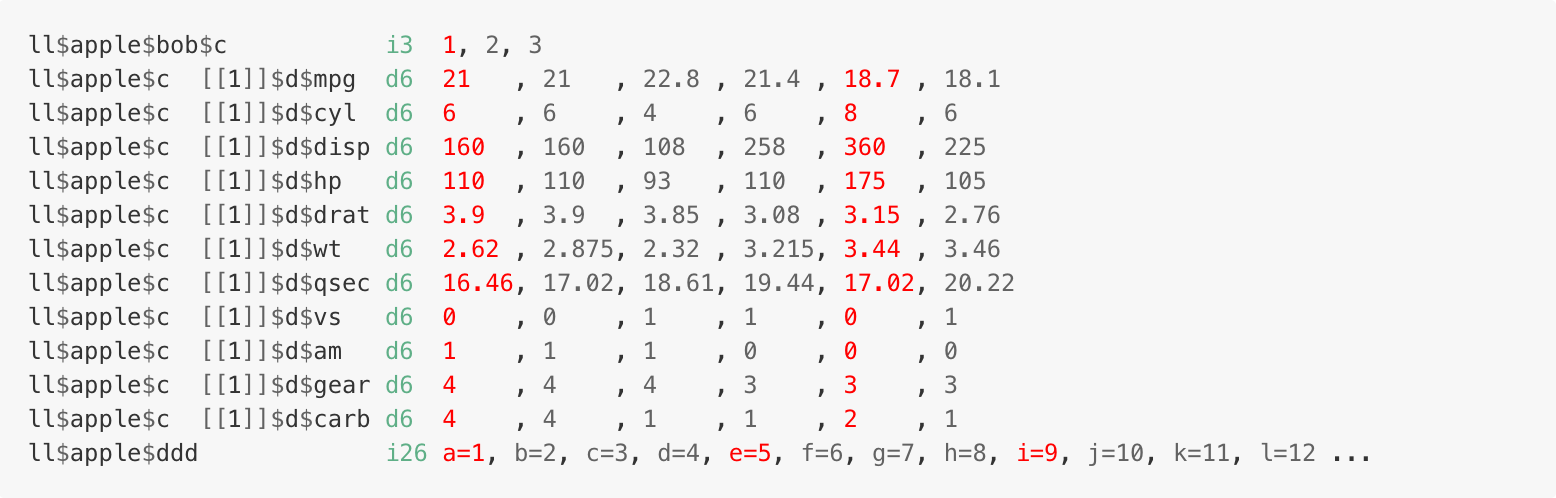
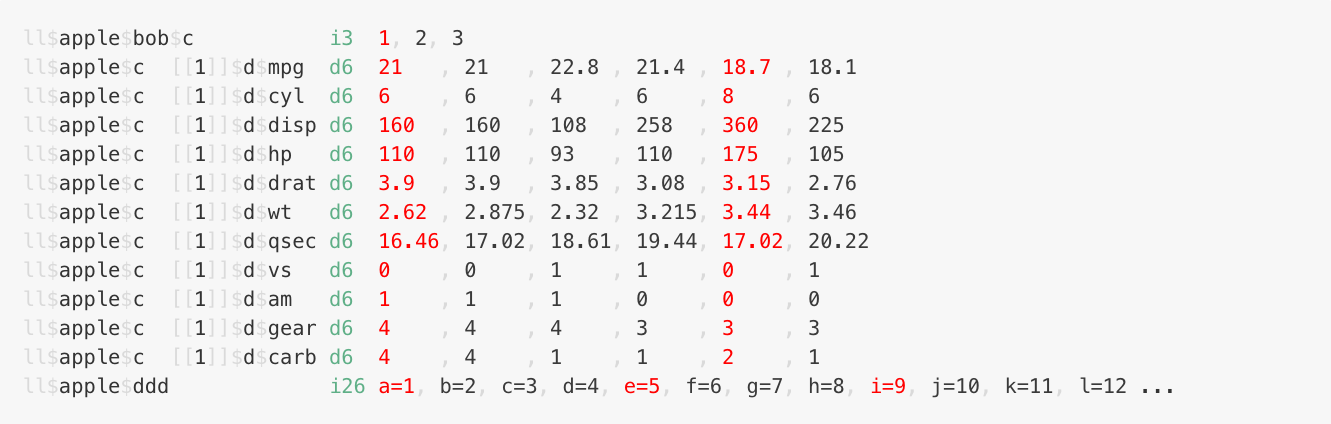
tweak use of 'soft' colour

diff --git a/man/figures/mtcars.html b/man/figures/mtcars.html
@@ -1,1 +1,1 @@
-<html><pre>mtcars<span style='color: #626262;'>$</span><span>mpg  </span><span style='color: #5FAF87;'>d32</span><span> </span><span style='color: #626262;'>21   </span><span>, </span><span style='color: #626262;'>21   </span><span>, </span><span style='color: #626262;'>22.8 </span><span>, </span><span style='color: #626262;'>21.4 </span><span>, </span><span style='color: #626262;'>18.7 </span><span>, </span><span style='color: #626262;'>18.1 </span><span>, </span><span style='color: #626262;'>14.3 </span><span>, </span><span style='color: #626262;'>24.4 </span><span>, </span><span style='color: #626262;'>22.8 </span><span>, </span><span style='color: #626262;'>19.2 </span><span>, </span><span style='color: #626262;'>17.8</span><span> ...<br />mtcars</span><span style='color: #626262;'>$</span><span>cyl  </span><span style='color: #5FAF87;'>d32</span><span> </span><span style='color: #626262;'>6    </span><span>, </span><span style='color: #626262;'>6    </span><span>, </span><span style='color: #626262;'>4    </span><span>, </span><span style='color: #626262;'>6    </span><span>, </span><span style='color: #626262;'>8    </span><span>, </span><span style='color: #626262;'>6    </span><span>, </span><span style='color: #626262;'>8    </span><span>, </span><span style='color: #626262;'>4    </span><span>, </span><span style='color: #626262;'>4    </span><span>, </span><span style='color: #626262;'>6    </span><span>, </span><span style='color: #626262;'>6   </span><span> ...<br />mtcars</span><span style='color: #626262;'>$</span><span>disp </span><span style='color: #5FAF87;'>d32</span><span> </span><span style='color: #626262;'>160  </span><span>, </span><span style='color: #626262;'>160  </span><span>, </span><span style='color: #626262;'>108  </span><span>, </span><span style='color: #626262;'>258  </span><span>, </span><span style='color: #626262;'>360  </span><span>, </span><span style='color: #626262;'>225  </span><span>, </span><span style='color: #626262;'>360  </span><span>, </span><span style='color: #626262;'>146.7</span><span>, </span><span style='color: #626262;'>140.8</span><span>, </span><span style='color: #626262;'>167.6</span><span>, </span><span style='color: #626262;'>167.</span><span> ...<br />mtcars</span><span style='color: #626262;'>$</span><span>hp   </span><span style='color: #5FAF87;'>d32</span><span> </span><span style='color: #626262;'>110  </span><span>, </span><span style='color: #626262;'>110  </span><span>, </span><span style='color: #626262;'>93   </span><span>, </span><span style='color: #626262;'>110  </span><span>, </span><span style='color: #626262;'>175  </span><span>, </span><span style='color: #626262;'>105  </span><span>, </span><span style='color: #626262;'>245  </span><span>, </span><span style='color: #626262;'>62   </span><span>, </span><span style='color: #626262;'>95   </span><span>, </span><span style='color: #626262;'>123  </span><span>, </span><span style='color: #626262;'>123 </span><span> ...<br />mtcars</span><span style='color: #626262;'>$</span><span>drat </span><span style='color: #5FAF87;'>d32</span><span> </span><span style='color: #626262;'>3.9  </span><span>, </span><span style='color: #626262;'>3.9  </span><span>, </span><span style='color: #626262;'>3.85 </span><span>, </span><span style='color: #626262;'>3.08 </span><span>, </span><span style='color: #626262;'>3.15 </span><span>, </span><span style='color: #626262;'>2.76 </span><span>, </span><span style='color: #626262;'>3.21 </span><span>, </span><span style='color: #626262;'>3.69 </span><span>, </span><span style='color: #626262;'>3.92 </span><span>, </span><span style='color: #626262;'>3.92 </span><span>, </span><span style='color: #626262;'>3.92</span><span> ...<br />mtcars</span><span style='color: #626262;'>$</span><span>wt   </span><span style='color: #5FAF87;'>d32</span><span> </span><span style='color: #626262;'>2.62 </span><span>, </span><span style='color: #626262;'>2.875</span><span>, </span><span style='color: #626262;'>2.32 </span><span>, </span><span style='color: #626262;'>3.215</span><span>, </span><span style='color: #626262;'>3.44 </span><span>, </span><span style='color: #626262;'>3.46 </span><span>, </span><span style='color: #626262;'>3.57 </span><span>, </span><span style='color: #626262;'>3.19 </span><span>, </span><span style='color: #626262;'>3.15 </span><span>, </span><span style='color: #626262;'>3.44 </span><span>, </span><span style='color: #626262;'>3.44</span><span> ...<br />mtcars</span><span style='color: #626262;'>$</span><span>qsec </span><span style='color: #5FAF87;'>d32</span><span> </span><span style='color: #626262;'>16.46</span><span>, </span><span style='color: #626262;'>17.02</span><span>, </span><span style='color: #626262;'>18.61</span><span>, </span><span style='color: #626262;'>19.44</span><span>, </span><span style='color: #626262;'>17.02</span><span>, </span><span style='color: #626262;'>20.22</span><span>, </span><span style='color: #626262;'>15.84</span><span>, </span><span style='color: #626262;'>20   </span><span>, </span><span style='color: #626262;'>22.9 </span><span>, </span><span style='color: #626262;'>18.3 </span><span>, </span><span style='color: #626262;'>18.9</span><span> ...<br />mtcars</span><span style='color: #626262;'>$</span><span>vs   </span><span style='color: #5FAF87;'>d32</span><span> </span><span style='color: #626262;'>0    </span><span>, </span><span style='color: #626262;'>0    </span><span>, </span><span style='color: #626262;'>1    </span><span>, </span><span style='color: #626262;'>1    </span><span>, </span><span style='color: #626262;'>0    </span><span>, </span><span style='color: #626262;'>1    </span><span>, </span><span style='color: #626262;'>0    </span><span>, </span><span style='color: #626262;'>1    </span><span>, </span><span style='color: #626262;'>1    </span><span>, </span><span style='color: #626262;'>1    </span><span>, </span><span style='color: #626262;'>1   </span><span> ...<br />mtcars</span><span style='color: #626262;'>$</span><span>am   </span><span style='color: #5FAF87;'>d32</span><span> </span><span style='color: #626262;'>1    </span><span>, </span><span style='color: #626262;'>1    </span><span>, </span><span style='color: #626262;'>1    </span><span>, </span><span style='color: #626262;'>0    </span><span>, </span><span style='color: #626262;'>0    </span><span>, </span><span style='color: #626262;'>0    </span><span>, </span><span style='color: #626262;'>0    </span><span>, </span><span style='color: #626262;'>0    </span><span>, </span><span style='color: #626262;'>0    </span><span>, </span><span style='color: #626262;'>0    </span><span>, </span><span style='color: #626262;'>0   </span><span> ...<br />mtcars</span><span style='color: #626262;'>$</span><span>gear </span><span style='color: #5FAF87;'>d32</span><span> </span><span style='color: #626262;'>4    </span><span>, </span><span style='color: #626262;'>4    </span><span>, </span><span style='color: #626262;'>4    </span><span>, </span><span style='color: #626262;'>3    </span><span>, </span><span style='color: #626262;'>3    </span><span>, </span><span style='color: #626262;'>3    </span><span>, </span><span style='color: #626262;'>3    </span><span>, </span><span style='color: #626262;'>4    </span><span>, </span><span style='color: #626262;'>4    </span><span>, </span><span style='color: #626262;'>4    </span><span>, </span><span style='color: #626262;'>4   </span><span> ...<br />mtcars</span><span style='color: #626262;'>$</span><span>carb </span><span style='color: #5FAF87;'>d32</span><span> </span><span style='color: #626262;'>4    </span><span>, </span><span style='color: #626262;'>4    </span><span>, </span><span style='color: #626262;'>1    </span><span>, </span><span style='color: #626262;'>1    </span><span>, </span><span style='color: #626262;'>2    </span><span>, </span><span style='color: #626262;'>1    </span><span>, </span><span style='color: #626262;'>4    </span><span>, </span><span style='color: #626262;'>2    </span><span>, </span><span style='color: #626262;'>2    </span><span>, </span><span style='color: #626262;'>4    </span><span>, </span><span style='color: #626262;'>4   </span><span> ...</span></pre></html>
+<html><pre><span style='color: #DADADA;'>mtcars$</span><span>mpg  </span><span style='color: #5FAF87;'>d32</span><span> </span><span style='color: #3A3A3A;'>21   </span><span style='color: #DADADA;'>, </span><span style='color: #3A3A3A;'>21   </span><span style='color: #DADADA;'>, </span><span style='color: #3A3A3A;'>22.8 </span><span style='color: #DADADA;'>, </span><span style='color: #3A3A3A;'>21.4 </span><span style='color: #DADADA;'>, </span><span style='color: #3A3A3A;'>18.7 </span><span style='color: #DADADA;'>, </span><span style='color: #3A3A3A;'>18.1 </span><span style='color: #DADADA;'>, </span><span style='color: #3A3A3A;'>14.3 </span><span style='color: #DADADA;'>, </span><span style='color: #3A3A3A;'>24.4 </span><span style='color: #DADADA;'>, </span><span style='color: #3A3A3A;'>22.8 </span><span style='color: #DADADA;'>, </span><span style='color: #3A3A3A;'>19.2 </span><span style='color: #DADADA;'>, </span><span style='color: #3A3A3A;'>17.8</span><span> ...<br /></span><span style='color: #DADADA;'>mtcars$</span><span>cyl  </span><span style='color: #5FAF87;'>d32</span><span> </span><span style='color: #3A3A3A;'>6    </span><span style='color: #DADADA;'>, </span><span style='color: #3A3A3A;'>6    </span><span style='color: #DADADA;'>, </span><span style='color: #3A3A3A;'>4    </span><span style='color: #DADADA;'>, </span><span style='color: #3A3A3A;'>6    </span><span style='color: #DADADA;'>, </span><span style='color: #3A3A3A;'>8    </span><span style='color: #DADADA;'>, </span><span style='color: #3A3A3A;'>6    </span><span style='color: #DADADA;'>, </span><span style='color: #3A3A3A;'>8    </span><span style='color: #DADADA;'>, </span><span style='color: #3A3A3A;'>4    </span><span style='color: #DADADA;'>, </span><span style='color: #3A3A3A;'>4    </span><span style='color: #DADADA;'>, </span><span style='color: #3A3A3A;'>6    </span><span style='color: #DADADA;'>, </span><span style='color: #3A3A3A;'>6   </span><span> ...<br /></span><span style='color: #DADADA;'>mtcars$</span><span>disp </span><span style='color: #5FAF87;'>d32</span><span> </span><span style='color: #3A3A3A;'>160  </span><span style='color: #DADADA;'>, </span><span style='color: #3A3A3A;'>160  </span><span style='color: #DADADA;'>, </span><span style='color: #3A3A3A;'>108  </span><span style='color: #DADADA;'>, </span><span style='color: #3A3A3A;'>258  </span><span style='color: #DADADA;'>, </span><span style='color: #3A3A3A;'>360  </span><span style='color: #DADADA;'>, </span><span style='color: #3A3A3A;'>225  </span><span style='color: #DADADA;'>, </span><span style='color: #3A3A3A;'>360  </span><span style='color: #DADADA;'>, </span><span style='color: #3A3A3A;'>146.7</span><span style='color: #DADADA;'>, </span><span style='color: #3A3A3A;'>140.8</span><span style='color: #DADADA;'>, </span><span style='color: #3A3A3A;'>167.6</span><span style='color: #DADADA;'>, </span><span style='color: #3A3A3A;'>167.</span><span> ...<br /></span><span style='color: #DADADA;'>mtcars$</span><span>hp   </span><span style='color: #5FAF87;'>d32</span><span> </span><span style='color: #3A3A3A;'>110  </span><span style='color: #DADADA;'>, </span><span style='color: #3A3A3A;'>110  </span><span style='color: #DADADA;'>, </span><span style='color: #3A3A3A;'>93   </span><span style='color: #DADADA;'>, </span><span style='color: #3A3A3A;'>110  </span><span style='color: #DADADA;'>, </span><span style='color: #3A3A3A;'>175  </span><span style='color: #DADADA;'>, </span><span style='color: #3A3A3A;'>105  </span><span style='color: #DADADA;'>, </span><span style='color: #3A3A3A;'>245  </span><span style='color: #DADADA;'>, </span><span style='color: #3A3A3A;'>62   </span><span style='color: #DADADA;'>, </span><span style='color: #3A3A3A;'>95   </span><span style='color: #DADADA;'>, </span><span style='color: #3A3A3A;'>123  </span><span style='color: #DADADA;'>, </span><span style='color: #3A3A3A;'>123 </span><span> ...<br /></span><span style='color: #DADADA;'>mtcars$</span><span>drat </span><span style='color: #5FAF87;'>d32</span><span> </span><span style='color: #3A3A3A;'>3.9  </span><span style='color: #DADADA;'>, </span><span style='color: #3A3A3A;'>3.9  </span><span style='color: #DADADA;'>, </span><span style='color: #3A3A3A;'>3.85 </span><span style='color: #DADADA;'>, </span><span style='color: #3A3A3A;'>3.08 </span><span style='color: #DADADA;'>, </span><span style='color: #3A3A3A;'>3.15 </span><span style='color: #DADADA;'>, </span><span style='color: #3A3A3A;'>2.76 </span><span style='color: #DADADA;'>, </span><span style='color: #3A3A3A;'>3.21 </span><span style='color: #DADADA;'>, </span><span style='color: #3A3A3A;'>3.69 </span><span style='color: #DADADA;'>, </span><span style='color: #3A3A3A;'>3.92 </span><span style='color: #DADADA;'>, </span><span style='color: #3A3A3A;'>3.92 </span><span style='color: #DADADA;'>, </span><span style='color: #3A3A3A;'>3.92</span><span> ...<br /></span><span style='color: #DADADA;'>mtcars$</span><span>wt   </span><span style='color: #5FAF87;'>d32</span><span> </span><span style='color: #3A3A3A;'>2.62 </span><span style='color: #DADADA;'>, </span><span style='color: #3A3A3A;'>2.875</span><span style='color: #DADADA;'>, </span><span style='color: #3A3A3A;'>2.32 </span><span style='color: #DADADA;'>, </span><span style='color: #3A3A3A;'>3.215</span><span style='color: #DADADA;'>, </span><span style='color: #3A3A3A;'>3.44 </span><span style='color: #DADADA;'>, </span><span style='color: #3A3A3A;'>3.46 </span><span style='color: #DADADA;'>, </span><span style='color: #3A3A3A;'>3.57 </span><span style='color: #DADADA;'>, </span><span style='color: #3A3A3A;'>3.19 </span><span style='color: #DADADA;'>, </span><span style='color: #3A3A3A;'>3.15 </span><span style='color: #DADADA;'>, </span><span style='color: #3A3A3A;'>3.44 </span><span style='color: #DADADA;'>, </span><span style='color: #3A3A3A;'>3.44</span><span> ...<br /></span><span style='color: #DADADA;'>mtcars$</span><span>qsec </span><span style='color: #5FAF87;'>d32</span><span> </span><span style='color: #3A3A3A;'>16.46</span><span style='color: #DADADA;'>, </span><span style='color: #3A3A3A;'>17.02</span><span style='color: #DADADA;'>, </span><span style='color: #3A3A3A;'>18.61</span><span style='color: #DADADA;'>, </span><span style='color: #3A3A3A;'>19.44</span><span style='color: #DADADA;'>, </span><span style='color: #3A3A3A;'>17.02</span><span style='color: #DADADA;'>, </span><span style='color: #3A3A3A;'>20.22</span><span style='color: #DADADA;'>, </span><span style='color: #3A3A3A;'>15.84</span><span style='color: #DADADA;'>, </span><span style='color: #3A3A3A;'>20   </span><span style='color: #DADADA;'>, </span><span style='color: #3A3A3A;'>22.9 </span><span style='color: #DADADA;'>, </span><span style='color: #3A3A3A;'>18.3 </span><span style='color: #DADADA;'>, </span><span style='color: #3A3A3A;'>18.9</span><span> ...<br /></span><span style='color: #DADADA;'>mtcars$</span><span>vs   </span><span style='color: #5FAF87;'>d32</span><span> </span><span style='color: #3A3A3A;'>0    </span><span style='color: #DADADA;'>, </span><span style='color: #3A3A3A;'>0    </span><span style='color: #DADADA;'>, </span><span style='color: #3A3A3A;'>1    </span><span style='color: #DADADA;'>, </span><span style='color: #3A3A3A;'>1    </span><span style='color: #DADADA;'>, </span><span style='color: #3A3A3A;'>0    </span><span style='color: #DADADA;'>, </span><span style='color: #3A3A3A;'>1    </span><span style='color: #DADADA;'>, </span><span style='color: #3A3A3A;'>0    </span><span style='color: #DADADA;'>, </span><span style='color: #3A3A3A;'>1    </span><span style='color: #DADADA;'>, </span><span style='color: #3A3A3A;'>1    </span><span style='color: #DADADA;'>, </span><span style='color: #3A3A3A;'>1    </span><span style='color: #DADADA;'>, </span><span style='color: #3A3A3A;'>1   </span><span> ...<br /></span><span style='color: #DADADA;'>mtcars$</span><span>am   </span><span style='color: #5FAF87;'>d32</span><span> </span><span style='color: #3A3A3A;'>1    </span><span style='color: #DADADA;'>, </span><span style='color: #3A3A3A;'>1    </span><span style='color: #DADADA;'>, </span><span style='color: #3A3A3A;'>1    </span><span style='color: #DADADA;'>, </span><span style='color: #3A3A3A;'>0    </span><span style='color: #DADADA;'>, </span><span style='color: #3A3A3A;'>0    </span><span style='color: #DADADA;'>, </span><span style='color: #3A3A3A;'>0    </span><span style='color: #DADADA;'>, </span><span style='color: #3A3A3A;'>0    </span><span style='color: #DADADA;'>, </span><span style='color: #3A3A3A;'>0    </span><span style='color: #DADADA;'>, </span><span style='color: #3A3A3A;'>0    </span><span style='color: #DADADA;'>, </span><span style='color: #3A3A3A;'>0    </span><span style='color: #DADADA;'>, </span><span style='color: #3A3A3A;'>0   </span><span> ...<br /></span><span style='color: #DADADA;'>mtcars$</span><span>gear </span><span style='color: #5FAF87;'>d32</span><span> </span><span style='color: #3A3A3A;'>4    </span><span style='color: #DADADA;'>, </span><span style='color: #3A3A3A;'>4    </span><span style='color: #DADADA;'>, </span><span style='color: #3A3A3A;'>4    </span><span style='color: #DADADA;'>, </span><span style='color: #3A3A3A;'>3    </span><span style='color: #DADADA;'>, </span><span style='color: #3A3A3A;'>3    </span><span style='color: #DADADA;'>, </span><span style='color: #3A3A3A;'>3    </span><span style='color: #DADADA;'>, </span><span style='color: #3A3A3A;'>3    </span><span style='color: #DADADA;'>, </span><span style='color: #3A3A3A;'>4    </span><span style='color: #DADADA;'>, </span><span style='color: #3A3A3A;'>4    </span><span style='color: #DADADA;'>, </span><span style='color: #3A3A3A;'>4    </span><span style='color: #DADADA;'>, </span><span style='color: #3A3A3A;'>4   </span><span> ...<br /></span><span style='color: #DADADA;'>mtcars$</span><span>carb </span><span style='color: #5FAF87;'>d32</span><span> </span><span style='color: #3A3A3A;'>4    </span><span style='color: #DADADA;'>, </span><span style='color: #3A3A3A;'>4    </span><span style='color: #DADADA;'>, </span><span style='color: #3A3A3A;'>1    </span><span style='color: #DADADA;'>, </span><span style='color: #3A3A3A;'>1    </span><span style='color: #DADADA;'>, </span><span style='color: #3A3A3A;'>2    </span><span style='color: #DADADA;'>, </span><span style='color: #3A3A3A;'>1    </span><span style='color: #DADADA;'>, </span><span style='color: #3A3A3A;'>4    </span><span style='color: #DADADA;'>, </span><span style='color: #3A3A3A;'>2    </span><span style='color: #DADADA;'>, </span><span style='color: #3A3A3A;'>2    </span><span style='color: #DADADA;'>, </span><span style='color: #3A3A3A;'>4    </span><span style='color: #DADADA;'>, </span><span style='color: #3A3A3A;'>4   </span><span> ...</span></pre></html>

diff --git a/man/figures/ll.html b/man/figures/ll.html
@@ -1,1 +1,1 @@
-<html><pre>ll<span style='color: #626262;'>$</span><span>apple</span><span style='color: #626262;'>$</span><span>bob</span><span style='color: #626262;'>$</span><span>c           </span><span style='color: #5FAF87;'>i3 </span><span> </span><span style='color: #FF0000;'>1</span><span>, </span><span style='color: #626262;'>2</span><span>, </span><span style='color: #626262;'>3</span><span><br />ll</span><span style='color: #626262;'>$</span><span>apple</span><span style='color: #626262;'>$</span><span>c  </span><span style='color: #626262;'>[[</span><span>1</span><span style='color: #626262;'>]]$</span><span>d</span><span style='color: #626262;'>$</span><span>mpg  </span><span style='color: #5FAF87;'>d6 </span><span> </span><span style='color: #FF0000;'>21   </span><span>, </span><span style='color: #626262;'>21   </span><span>, </span><span style='color: #626262;'>22.8 </span><span>, </span><span style='color: #626262;'>21.4 </span><span>, </span><span style='color: #FF0000;'>18.7 </span><span>, </span><span style='color: #626262;'>18.1 </span><span><br />ll</span><span style='color: #626262;'>$</span><span>apple</span><span style='color: #626262;'>$</span><span>c  </span><span style='color: #626262;'>[[</span><span>1</span><span style='color: #626262;'>]]$</span><span>d</span><span style='color: #626262;'>$</span><span>cyl  </span><span style='color: #5FAF87;'>d6 </span><span> </span><span style='color: #FF0000;'>6    </span><span>, </span><span style='color: #626262;'>6    </span><span>, </span><span style='color: #626262;'>4    </span><span>, </span><span style='color: #626262;'>6    </span><span>, </span><span style='color: #FF0000;'>8    </span><span>, </span><span style='color: #626262;'>6    </span><span><br />ll</span><span style='color: #626262;'>$</span><span>apple</span><span style='color: #626262;'>$</span><span>c  </span><span style='color: #626262;'>[[</span><span>1</span><span style='color: #626262;'>]]$</span><span>d</span><span style='color: #626262;'>$</span><span>disp </span><span style='color: #5FAF87;'>d6 </span><span> </span><span style='color: #FF0000;'>160  </span><span>, </span><span style='color: #626262;'>160  </span><span>, </span><span style='color: #626262;'>108  </span><span>, </span><span style='color: #626262;'>258  </span><span>, </span><span style='color: #FF0000;'>360  </span><span>, </span><span style='color: #626262;'>225  </span><span><br />ll</span><span style='color: #626262;'>$</span><span>apple</span><span style='color: #626262;'>$</span><span>c  </span><span style='color: #626262;'>[[</span><span>1</span><span style='color: #626262;'>]]$</span><span>d</span><span style='color: #626262;'>$</span><span>hp   </span><span style='color: #5FAF87;'>d6 </span><span> </span><span style='color: #FF0000;'>110  </span><span>, </span><span style='color: #626262;'>110  </span><span>, </span><span style='color: #626262;'>93   </span><span>, </span><span style='color: #626262;'>110  </span><span>, </span><span style='color: #FF0000;'>175  </span><span>, </span><span style='color: #626262;'>105  </span><span><br />ll</span><span style='color: #626262;'>$</span><span>apple</span><span style='color: #626262;'>$</span><span>c  </span><span style='color: #626262;'>[[</span><span>1</span><span style='color: #626262;'>]]$</span><span>d</span><span style='color: #626262;'>$</span><span>drat </span><span style='color: #5FAF87;'>d6 </span><span> </span><span style='color: #FF0000;'>3.9  </span><span>, </span><span style='color: #626262;'>3.9  </span><span>, </span><span style='color: #626262;'>3.85 </span><span>, </span><span style='color: #626262;'>3.08 </span><span>, </span><span style='color: #FF0000;'>3.15 </span><span>, </span><span style='color: #626262;'>2.76 </span><span><br />ll</span><span style='color: #626262;'>$</span><span>apple</span><span style='color: #626262;'>$</span><span>c  </span><span style='color: #626262;'>[[</span><span>1</span><span style='color: #626262;'>]]$</span><span>d</span><span style='color: #626262;'>$</span><span>wt   </span><span style='color: #5FAF87;'>d6 </span><span> </span><span style='color: #FF0000;'>2.62 </span><span>, </span><span style='color: #626262;'>2.875</span><span>, </span><span style='color: #626262;'>2.32 </span><span>, </span><span style='color: #626262;'>3.215</span><span>, </span><span style='color: #FF0000;'>3.44 </span><span>, </span><span style='color: #626262;'>3.46 </span><span><br />ll</span><span style='color: #626262;'>$</span><span>apple</span><span style='color: #626262;'>$</span><span>c  </span><span style='color: #626262;'>[[</span><span>1</span><span style='color: #626262;'>]]$</span><span>d</span><span style='color: #626262;'>$</span><span>qsec </span><span style='color: #5FAF87;'>d6 </span><span> </span><span style='color: #FF0000;'>16.46</span><span>, </span><span style='color: #626262;'>17.02</span><span>, </span><span style='color: #626262;'>18.61</span><span>, </span><span style='color: #626262;'>19.44</span><span>, </span><span style='color: #FF0000;'>17.02</span><span>, </span><span style='color: #626262;'>20.22</span><span><br />ll</span><span style='color: #626262;'>$</span><span>apple</span><span style='color: #626262;'>$</span><span>c  </span><span style='color: #626262;'>[[</span><span>1</span><span style='color: #626262;'>]]$</span><span>d</span><span style='color: #626262;'>$</span><span>vs   </span><span style='color: #5FAF87;'>d6 </span><span> </span><span style='color: #FF0000;'>0    </span><span>, </span><span style='color: #626262;'>0    </span><span>, </span><span style='color: #626262;'>1    </span><span>, </span><span style='color: #626262;'>1    </span><span>, </span><span style='color: #FF0000;'>0    </span><span>, </span><span style='color: #626262;'>1    </span><span><br />ll</span><span style='color: #626262;'>$</span><span>apple</span><span style='color: #626262;'>$</span><span>c  </span><span style='color: #626262;'>[[</span><span>1</span><span style='color: #626262;'>]]$</span><span>d</span><span style='color: #626262;'>$</span><span>am   </span><span style='color: #5FAF87;'>d6 </span><span> </span><span style='color: #FF0000;'>1    </span><span>, </span><span style='color: #626262;'>1    </span><span>, </span><span style='color: #626262;'>1    </span><span>, </span><span style='color: #626262;'>0    </span><span>, </span><span style='color: #FF0000;'>0    </span><span>, </span><span style='color: #626262;'>0    </span><span><br />ll</span><span style='color: #626262;'>$</span><span>apple</span><span style='color: #626262;'>$</span><span>c  </span><span style='color: #626262;'>[[</span><span>1</span><span style='color: #626262;'>]]$</span><span>d</span><span style='color: #626262;'>$</span><span>gear </span><span style='color: #5FAF87;'>d6 </span><span> </span><span style='color: #FF0000;'>4    </span><span>, </span><span style='color: #626262;'>4    </span><span>, </span><span style='color: #626262;'>4    </span><span>, </span><span style='color: #626262;'>3    </span><span>, </span><span style='color: #FF0000;'>3    </span><span>, </span><span style='color: #626262;'>3    </span><span><br />ll</span><span style='color: #626262;'>$</span><span>apple</span><span style='color: #626262;'>$</span><span>c  </span><span style='color: #626262;'>[[</span><span>1</span><span style='color: #626262;'>]]$</span><span>d</span><span style='color: #626262;'>$</span><span>carb </span><span style='color: #5FAF87;'>d6 </span><span> </span><span style='color: #FF0000;'>4    </span><span>, </span><span style='color: #626262;'>4    </span><span>, </span><span style='color: #626262;'>1    </span><span>, </span><span style='color: #626262;'>1    </span><span>, </span><span style='color: #FF0000;'>2    </span><span>, </span><span style='color: #626262;'>1    </span><span><br />ll</span><span style='color: #626262;'>$</span><span>apple</span><span style='color: #626262;'>$</span><span>ddd             </span><span style='color: #5FAF87;'>i26</span><span> </span><span style='color: #FF0000;'>a=1</span><span>, </span><span style='color: #626262;'>b=2</span><span>, </span><span style='color: #626262;'>c=3</span><span>, </span><span style='color: #626262;'>d=4</span><span>, </span><span style='color: #FF0000;'>e=5</span><span>, </span><span style='color: #626262;'>f=6</span><span>, </span><span style='color: #626262;'>g=7</span><span>, </span><span style='color: #626262;'>h=8</span><span>, </span><span style='color: #FF0000;'>i=9</span><span>, </span><span style='color: #626262;'>j=10</span><span>, </span><span style='color: #626262;'>k=11</span><span>, </span><span style='color: #626262;'>l=12</span><span> ...</span></pre></html>
+<html><pre><span style='color: #DADADA;'>ll$</span><span>apple</span><span style='color: #DADADA;'>$</span><span>bob</span><span style='color: #DADADA;'>$</span><span>c           </span><span style='color: #5FAF87;'>i3 </span><span> </span><span style='color: #FF0000;'>1</span><span style='color: #DADADA;'>, </span><span style='color: #3A3A3A;'>2</span><span style='color: #DADADA;'>, </span><span style='color: #3A3A3A;'>3</span><span><br /></span><span style='color: #DADADA;'>ll$</span><span>apple</span><span style='color: #DADADA;'>$</span><span>c  </span><span style='color: #DADADA;'>[[</span><span>1</span><span style='color: #DADADA;'>]]$</span><span>d</span><span style='color: #DADADA;'>$</span><span>mpg  </span><span style='color: #5FAF87;'>d6 </span><span> </span><span style='color: #FF0000;'>21   </span><span style='color: #DADADA;'>, </span><span style='color: #3A3A3A;'>21   </span><span style='color: #DADADA;'>, </span><span style='color: #3A3A3A;'>22.8 </span><span style='color: #DADADA;'>, </span><span style='color: #3A3A3A;'>21.4 </span><span style='color: #DADADA;'>, </span><span style='color: #FF0000;'>18.7 </span><span style='color: #DADADA;'>, </span><span style='color: #3A3A3A;'>18.1 </span><span><br /></span><span style='color: #DADADA;'>ll$</span><span>apple</span><span style='color: #DADADA;'>$</span><span>c  </span><span style='color: #DADADA;'>[[</span><span>1</span><span style='color: #DADADA;'>]]$</span><span>d</span><span style='color: #DADADA;'>$</span><span>cyl  </span><span style='color: #5FAF87;'>d6 </span><span> </span><span style='color: #FF0000;'>6    </span><span style='color: #DADADA;'>, </span><span style='color: #3A3A3A;'>6    </span><span style='color: #DADADA;'>, </span><span style='color: #3A3A3A;'>4    </span><span style='color: #DADADA;'>, </span><span style='color: #3A3A3A;'>6    </span><span style='color: #DADADA;'>, </span><span style='color: #FF0000;'>8    </span><span style='color: #DADADA;'>, </span><span style='color: #3A3A3A;'>6    </span><span><br /></span><span style='color: #DADADA;'>ll$</span><span>apple</span><span style='color: #DADADA;'>$</span><span>c  </span><span style='color: #DADADA;'>[[</span><span>1</span><span style='color: #DADADA;'>]]$</span><span>d</span><span style='color: #DADADA;'>$</span><span>disp </span><span style='color: #5FAF87;'>d6 </span><span> </span><span style='color: #FF0000;'>160  </span><span style='color: #DADADA;'>, </span><span style='color: #3A3A3A;'>160  </span><span style='color: #DADADA;'>, </span><span style='color: #3A3A3A;'>108  </span><span style='color: #DADADA;'>, </span><span style='color: #3A3A3A;'>258  </span><span style='color: #DADADA;'>, </span><span style='color: #FF0000;'>360  </span><span style='color: #DADADA;'>, </span><span style='color: #3A3A3A;'>225  </span><span><br /></span><span style='color: #DADADA;'>ll$</span><span>apple</span><span style='color: #DADADA;'>$</span><span>c  </span><span style='color: #DADADA;'>[[</span><span>1</span><span style='color: #DADADA;'>]]$</span><span>d</span><span style='color: #DADADA;'>$</span><span>hp   </span><span style='color: #5FAF87;'>d6 </span><span> </span><span style='color: #FF0000;'>110  </span><span style='color: #DADADA;'>, </span><span style='color: #3A3A3A;'>110  </span><span style='color: #DADADA;'>, </span><span style='color: #3A3A3A;'>93   </span><span style='color: #DADADA;'>, </span><span style='color: #3A3A3A;'>110  </span><span style='color: #DADADA;'>, </span><span style='color: #FF0000;'>175  </span><span style='color: #DADADA;'>, </span><span style='color: #3A3A3A;'>105  </span><span><br /></span><span style='color: #DADADA;'>ll$</span><span>apple</span><span style='color: #DADADA;'>$</span><span>c  </span><span style='color: #DADADA;'>[[</span><span>1</span><span style='color: #DADADA;'>]]$</span><span>d</span><span style='color: #DADADA;'>$</span><span>drat </span><span style='color: #5FAF87;'>d6 </span><span> </span><span style='color: #FF0000;'>3.9  </span><span style='color: #DADADA;'>, </span><span style='color: #3A3A3A;'>3.9  </span><span style='color: #DADADA;'>, </span><span style='color: #3A3A3A;'>3.85 </span><span style='color: #DADADA;'>, </span><span style='color: #3A3A3A;'>3.08 </span><span style='color: #DADADA;'>, </span><span style='color: #FF0000;'>3.15 </span><span style='color: #DADADA;'>, </span><span style='color: #3A3A3A;'>2.76 </span><span><br /></span><span style='color: #DADADA;'>ll$</span><span>apple</span><span style='color: #DADADA;'>$</span><span>c  </span><span style='color: #DADADA;'>[[</span><span>1</span><span style='color: #DADADA;'>]]$</span><span>d</span><span style='color: #DADADA;'>$</span><span>wt   </span><span style='color: #5FAF87;'>d6 </span><span> </span><span style='color: #FF0000;'>2.62 </span><span style='color: #DADADA;'>, </span><span style='color: #3A3A3A;'>2.875</span><span style='color: #DADADA;'>, </span><span style='color: #3A3A3A;'>2.32 </span><span style='color: #DADADA;'>, </span><span style='color: #3A3A3A;'>3.215</span><span style='color: #DADADA;'>, </span><span style='color: #FF0000;'>3.44 </span><span style='color: #DADADA;'>, </span><span style='color: #3A3A3A;'>3.46 </span><span><br /></span><span style='color: #DADADA;'>ll$</span><span>apple</span><span style='color: #DADADA;'>$</span><span>c  </span><span style='color: #DADADA;'>[[</span><span>1</span><span style='color: #DADADA;'>]]$</span><span>d</span><span style='color: #DADADA;'>$</span><span>qsec </span><span style='color: #5FAF87;'>d6 </span><span> </span><span style='color: #FF0000;'>16.46</span><span style='color: #DADADA;'>, </span><span style='color: #3A3A3A;'>17.02</span><span style='color: #DADADA;'>, </span><span style='color: #3A3A3A;'>18.61</span><span style='color: #DADADA;'>, </span><span style='color: #3A3A3A;'>19.44</span><span style='color: #DADADA;'>, </span><span style='color: #FF0000;'>17.02</span><span style='color: #DADADA;'>, </span><span style='color: #3A3A3A;'>20.22</span><span><br /></span><span style='color: #DADADA;'>ll$</span><span>apple</span><span style='color: #DADADA;'>$</span><span>c  </span><span style='color: #DADADA;'>[[</span><span>1</span><span style='color: #DADADA;'>]]$</span><span>d</span><span style='color: #DADADA;'>$</span><span>vs   </span><span style='color: #5FAF87;'>d6 </span><span> </span><span style='color: #FF0000;'>0    </span><span style='color: #DADADA;'>, </span><span style='color: #3A3A3A;'>0    </span><span style='color: #DADADA;'>, </span><span style='color: #3A3A3A;'>1    </span><span style='color: #DADADA;'>, </span><span style='color: #3A3A3A;'>1    </span><span style='color: #DADADA;'>, </span><span style='color: #FF0000;'>0    </span><span style='color: #DADADA;'>, </span><span style='color: #3A3A3A;'>1    </span><span><br /></span><span style='color: #DADADA;'>ll$</span><span>apple</span><span style='color: #DADADA;'>$</span><span>c  </span><span style='color: #DADADA;'>[[</span><span>1</span><span style='color: #DADADA;'>]]$</span><span>d</span><span style='color: #DADADA;'>$</span><span>am   </span><span style='color: #5FAF87;'>d6 </span><span> </span><span style='color: #FF0000;'>1    </span><span style='color: #DADADA;'>, </span><span style='color: #3A3A3A;'>1    </span><span style='color: #DADADA;'>, </span><span style='color: #3A3A3A;'>1    </span><span style='color: #DADADA;'>, </span><span style='color: #3A3A3A;'>0    </span><span style='color: #DADADA;'>, </span><span style='color: #FF0000;'>0    </span><span style='color: #DADADA;'>, </span><span style='color: #3A3A3A;'>0    </span><span><br /></span><span style='color: #DADADA;'>ll$</span><span>apple</span><span style='color: #DADADA;'>$</span><span>c  </span><span style='color: #DADADA;'>[[</span><span>1</span><span style='color: #DADADA;'>]]$</span><span>d</span><span style='color: #DADADA;'>$</span><span>gear </span><span style='color: #5FAF87;'>d6 </span><span> </span><span style='color: #FF0000;'>4    </span><span style='color: #DADADA;'>, </span><span style='color: #3A3A3A;'>4    </span><span style='color: #DADADA;'>, </span><span style='color: #3A3A3A;'>4    </span><span style='color: #DADADA;'>, </span><span style='color: #3A3A3A;'>3    </span><span style='color: #DADADA;'>, </span><span style='color: #FF0000;'>3    </span><span style='color: #DADADA;'>, </span><span style='color: #3A3A3A;'>3    </span><span><br /></span><span style='color: #DADADA;'>ll$</span><span>apple</span><span style='color: #DADADA;'>$</span><span>c  </span><span style='color: #DADADA;'>[[</span><span>1</span><span style='color: #DADADA;'>]]$</span><span>d</span><span style='color: #DADADA;'>$</span><span>carb </span><span style='color: #5FAF87;'>d6 </span><span> </span><span style='color: #FF0000;'>4    </span><span style='color: #DADADA;'>, </span><span style='color: #3A3A3A;'>4    </span><span style='color: #DADADA;'>, </span><span style='color: #3A3A3A;'>1    </span><span style='color: #DADADA;'>, </span><span style='color: #3A3A3A;'>1    </span><span style='color: #DADADA;'>, </span><span style='color: #FF0000;'>2    </span><span style='color: #DADADA;'>, </span><span style='color: #3A3A3A;'>1    </span><span><br /></span><span style='color: #DADADA;'>ll$</span><span>apple</span><span style='color: #DADADA;'>$</span><span>ddd             </span><span style='color: #5FAF87;'>i26</span><span> </span><span style='color: #FF0000;'>a=1</span><span style='color: #DADADA;'>, </span><span style='color: #3A3A3A;'>b=2</span><span style='color: #DADADA;'>, </span><span style='color: #3A3A3A;'>c=3</span><span style='color: #DADADA;'>, </span><span style='color: #3A3A3A;'>d=4</span><span style='color: #DADADA;'>, </span><span style='color: #FF0000;'>e=5</span><span style='color: #DADADA;'>, </span><span style='color: #3A3A3A;'>f=6</span><span style='color: #DADADA;'>, </span><span style='color: #3A3A3A;'>g=7</span><span style='color: #DADADA;'>, </span><span style='color: #3A3A3A;'>h=8</span><span style='color: #DADADA;'>, </span><span style='color: #FF0000;'>i=9</span><span style='color: #DADADA;'>, </span><span style='color: #3A3A3A;'>j=10</span><span style='color: #DADADA;'>, </span><span style='color: #3A3A3A;'>k=11</span><span style='color: #DADADA;'>, </span><span style='color: #3A3A3A;'>l=12</span><span> ...</span></pre></html>

diff --git a/README.md b/README.md
@@ -21,6 +21,7 @@ It was built with (nested) `list` output in mind, but handles
   - Alignment of indexes at start of each row, such that names at the
     same depth are aligned under each other
   - Alignment of values within data.frames
+  - Ability to select+copy+paste the path to a particular element
 
 ### Limitations
 

diff --git a/NEWS.md b/NEWS.md
@@ -1,3 +1,7 @@
+# terse 0.1.1
+
+* Tweaks to use of 'soft' colour
+
 # terse 0.1.0
 
 * Initial release
